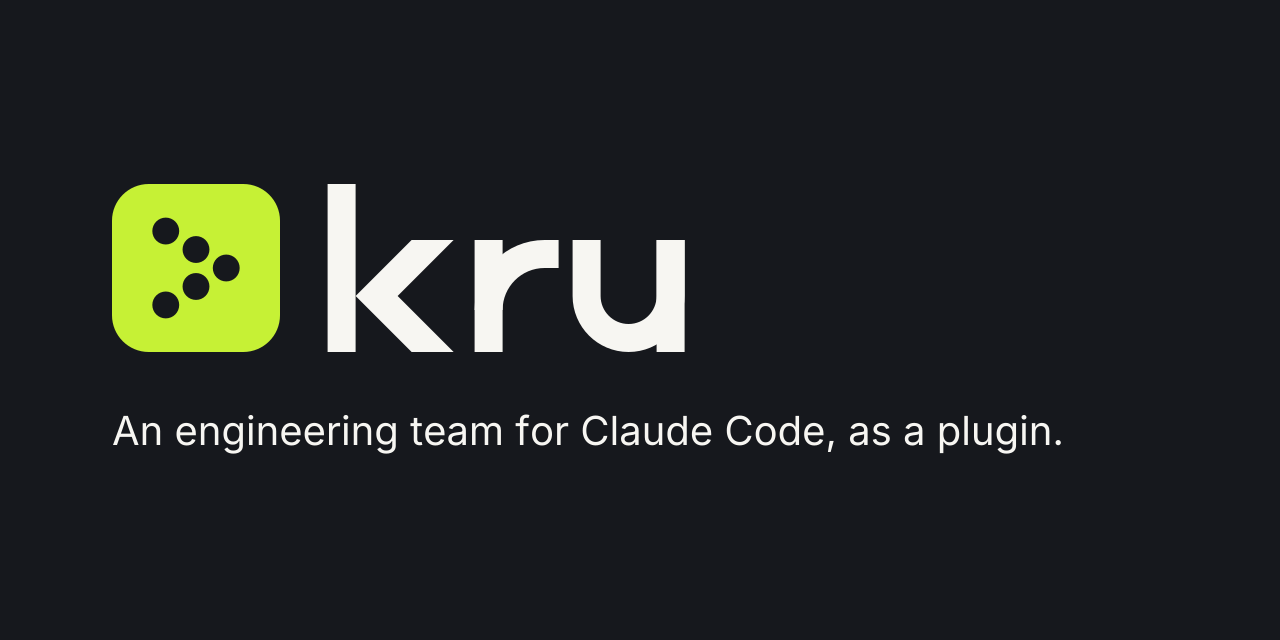
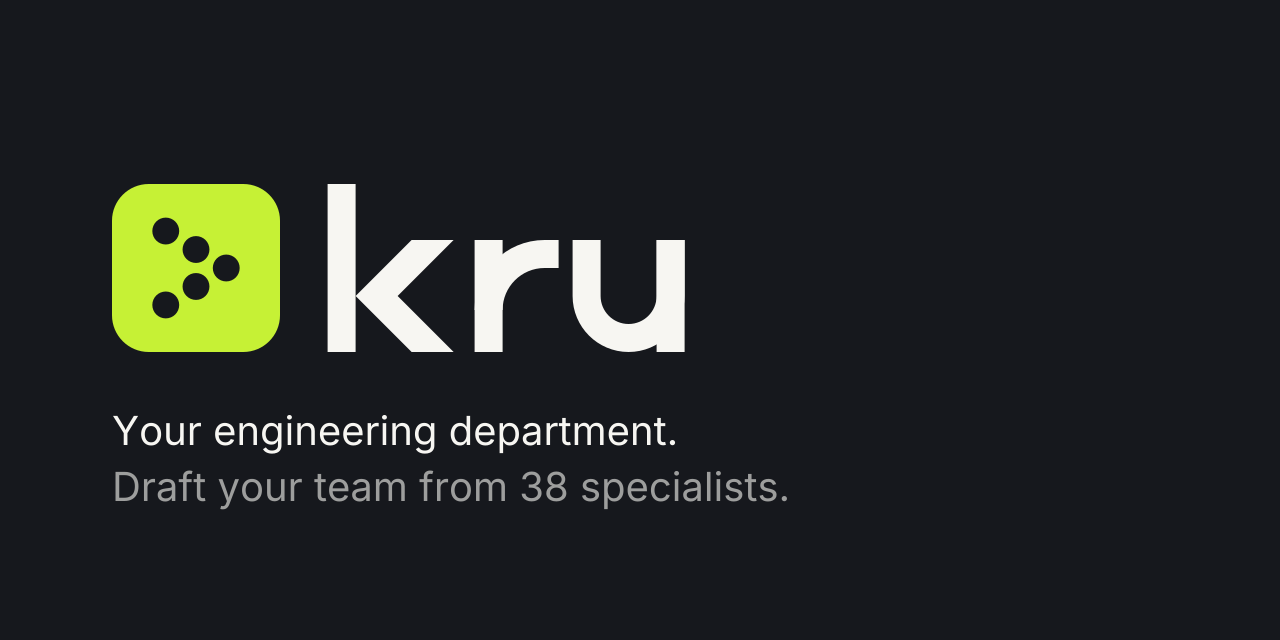
tagline: your engineering department, draft your team from 38 specialists — readme intro, plugin/marketplace descriptions, social card (subline master); roster count wiring follows

Changed region(s): [[0.0625, 0.6562, 0.8438, 0.7812]]

diff --git a/skills/roster/SKILL.md b/skills/roster/SKILL.md
@@ -22,8 +22,8 @@ Every place a **seat (agent)** is registered. `hire` writes all of them, `retire
 | 3 | `ROSTER.md` → *Model tiers* | a **pinned** row (explicit full ID) + one-line why — `inherit` is retired |
 | 4 | `SOURCES.md` | backing-source row (skip only for a genuinely stack-agnostic seat, e.g. a pure reviewer — and say so) |
 | 5 | `${CLAUDE_PLUGIN_ROOT}/references/routing.md` | the `detected/needed → specialist` row — read by `lead` and by `/kru:setup`, which is what puts the seat into a repo's sheet (a review-only seat wires into *Step 4* instead; a **user-invoked** seat — triggered by the user, via a thin invoker skill (`/<name>`) or by spawning the agent — wires via its `ROSTER.md` row marked user-invoked, plus that invoker skill if it has one, and stays out of `lead` entirely; a **hook-invoked** seat — fired by the plugin's own `hooks/hooks.json`, e.g. the Stop nudge — wires via its `ROSTER.md` row marked hook-invoked plus its hook scripts, and likewise stays out of `lead` routing) |
-| 6 | `.claude-plugin/plugin.json` | `version` bump **and** the "routes to N specialist subagents" **count** in `description` |
-| 7 | `.claude-plugin/marketplace.json` | the "N specialist subagents" **count** in `description` |
+| 6 | `.claude-plugin/plugin.json` | `version` bump **and** the "from N specialists" **count** in `description` |
+| 7 | `.claude-plugin/marketplace.json` · `README.md` intro | the "from N specialists" **count** in both marketplace `description`s and the README's opening line |
 | 8 | `VERSION` · `ROSTER.md` header | version — minor for a new seat: `VERSION` and the `# Roster — vX.Y.Z` header, equal |
 | 9 | git | `commit` + `tag vX.Y.Z` — **only when the user asks** (team git rule) |
 

diff --git a/skills/roster/audit.md b/skills/roster/audit.md
@@ -3,7 +3,7 @@
 Read-only. Assert every point of the wiring map (`SKILL.md`) agrees across files, then report a table: **check → OK / DRIFT → fix**. Report only; hand fixes to `hire`/`retire`, or apply on the user's say-so.
 
 ## Assertions
-1. **Count** — `ls agents/*.md | wc -l` equals the "N specialist subagents" number in **both** `plugin.json` and `marketplace.json` descriptions.
+1. **Count** — `ls agents/*.md | wc -l` equals the "from N specialists" number in `plugin.json`, both `marketplace.json` descriptions and the `README.md` intro.
 2. **Version** — `VERSION` equals `plugin.json` `version` equals the `ROSTER.md` `# Roster — vX.Y.Z` header.
 3. **Full registration** — every `agents/*.md` has (a) a `ROSTER.md` *Current specialists* row, (b) a *Model tiers* entry, (c) a `${CLAUDE_PLUGIN_ROOT}/references/routing.md` routing row **or** *Step 4* review wiring **or** a `ROSTER.md` row marked **user-invoked** (user-triggered — via a thin invoker skill or direct spawn; absent from `lead` by design) **or** a `ROSTER.md` row marked **hook-invoked** (fired by the plugin's `hooks/hooks.json`; absent from `lead` by design — assert its named hook scripts exist under `hooks/`), and (d) a `SOURCES.md` row **or** an explicit stack-agnostic note.
 4. **No orphans** — every `ROSTER.md` specialists row and every `lead` routing row names a real `agents/*.md` file.

diff --git a/README.md b/README.md
@@ -6,11 +6,7 @@
 
 *(said “crew”)*
 
-An engineering team for Claude Code, as a plugin. One **lead** skill scopes the work, detects the
-stack, and routes it to 34 specialist seats (builders, reviewers, design, platform), each pinned to
-its framework's official source rather than to training data.
-
-You talk to the lead the way you'd talk to an engineering lead. It does the routing.
+Your engineering department. Draft your team from 38 specialists.
 
 ## Install
 ```
@@ -75,7 +71,7 @@ Two things about a cloud session worth knowing before the first run:
   and offers a fallback instead of shipping a placeholder. The same `npm install` gives `brand-designer`
   the `sharp` it rasterizes icons with; no key needed.
 
-## First run
+## First run: `/kru:setup`
 In the repo you want the team to work on:
 
 ```
